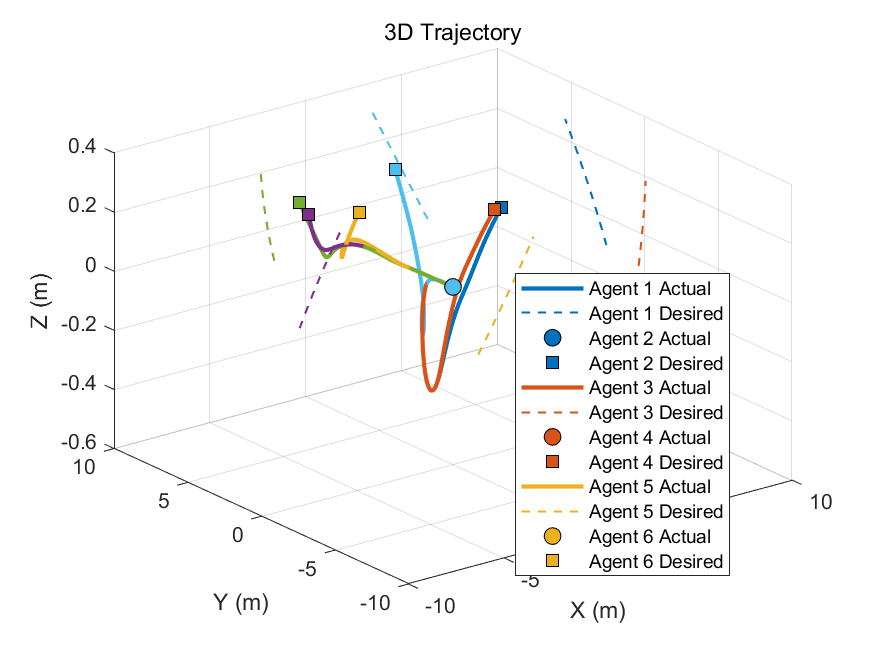
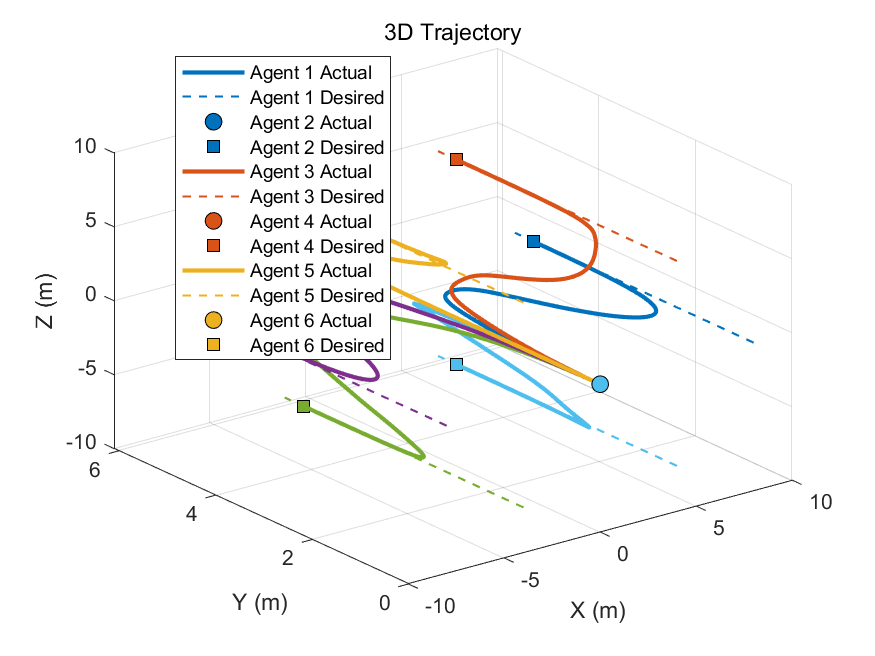
添加line formation

diff --git a/6_DOF_formation/TTR_formation_sim_init/traj/traj_formation_line.m b/6_DOF_formation/TTR_formation_sim_init/traj/traj_formation_line.m
@@ -1,0 +1,24 @@
+function [desired_state] = traj_formation_line(t, agent_index)
+%正六边形沿着y轴匀速直线运动的编队
+
+    % Parameters
+    radius = 8; % Radius of the hexagon
+    velocity = 1; % Speed of the formation along y-axis
+    
+    % Calculate the angle for each agent in the hexagon
+    angle = 2 * pi * (agent_index - 1) / 6;
+    
+    % Calculate position in hexagon formation
+    x = radius * cos(angle);
+    y = velocity * t; % Linear motion along y-axis
+    z = radius * sin(angle);
+    
+    % Position vector
+    pos = [x; y; z];
+    
+    % Output desired state
+    desired_state.pos = pos;
+    desired_state.yaw = 0;
+    desired_state.yawdot = 0;
+    desired_state.mode = 1;
+end

diff --git a/6_DOF_formation/TTR_formation_sim_init/ttr_gui_launcher.m b/6_DOF_formation/TTR_formation_sim_init/ttr_gui_launcher.m
@@ -39,7 +39,7 @@ function ttr_gui_launcher()
         real_time = realtimeCheck.Value;
         sim_time = timeBox.Value;
 
-        traj_map = {@traj_formation_circle_lift, @traj_line, @traj_helix, @traj_4point_step};
+        traj_map = {@traj_formation_circle_lift, @traj_formation_line, @traj_helix, @traj_4point_step};
         trajhandle = traj_map{find(strcmp(trajPopup.Items, traj_choice))};
 
         ctrl_map = {@global_controller_main_testing, @copter_controller_Done, @cruise_controller_needtodo};
